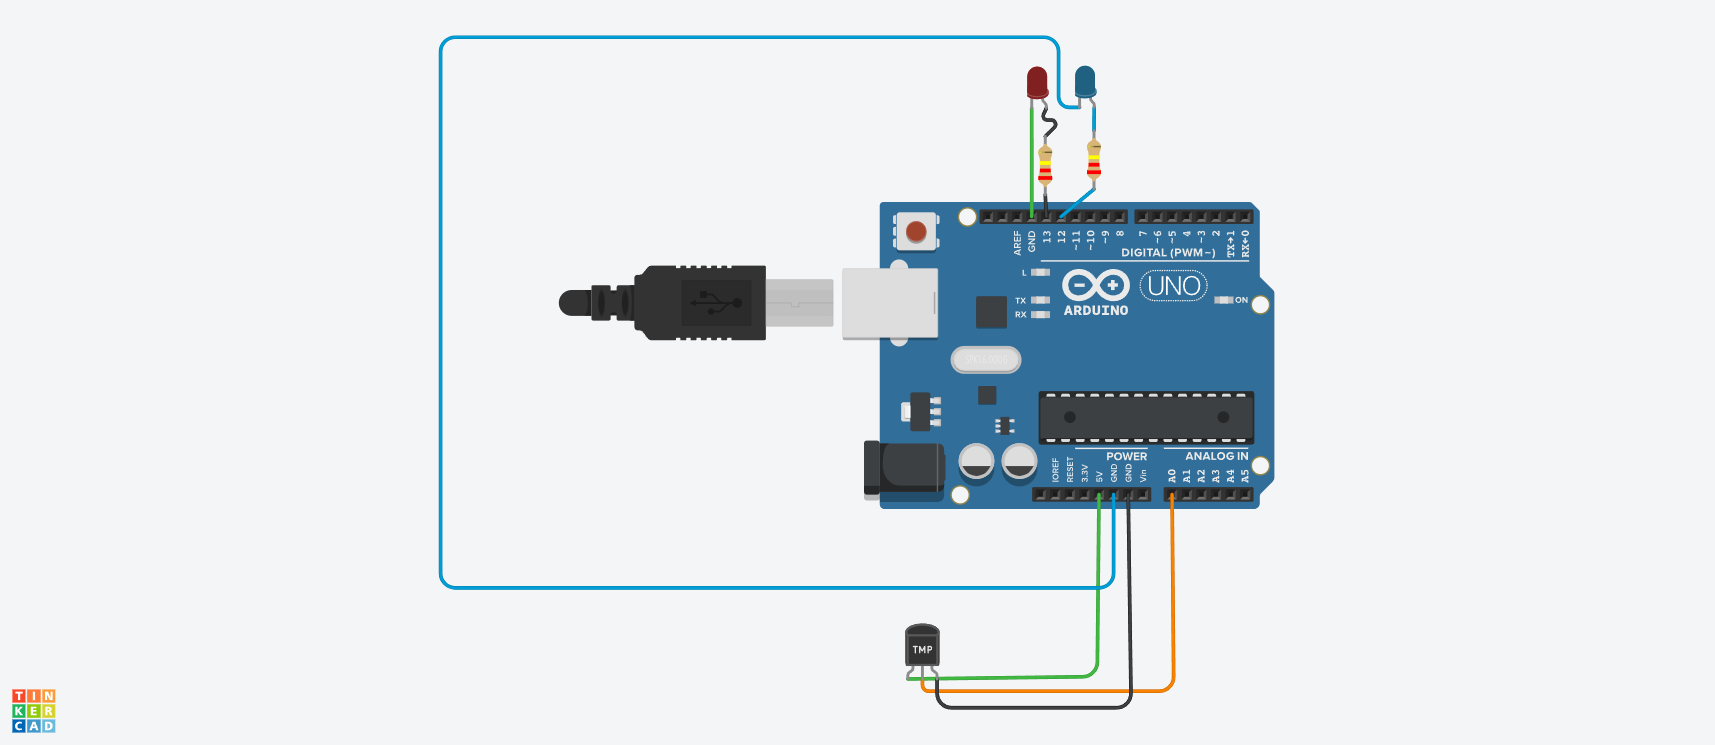
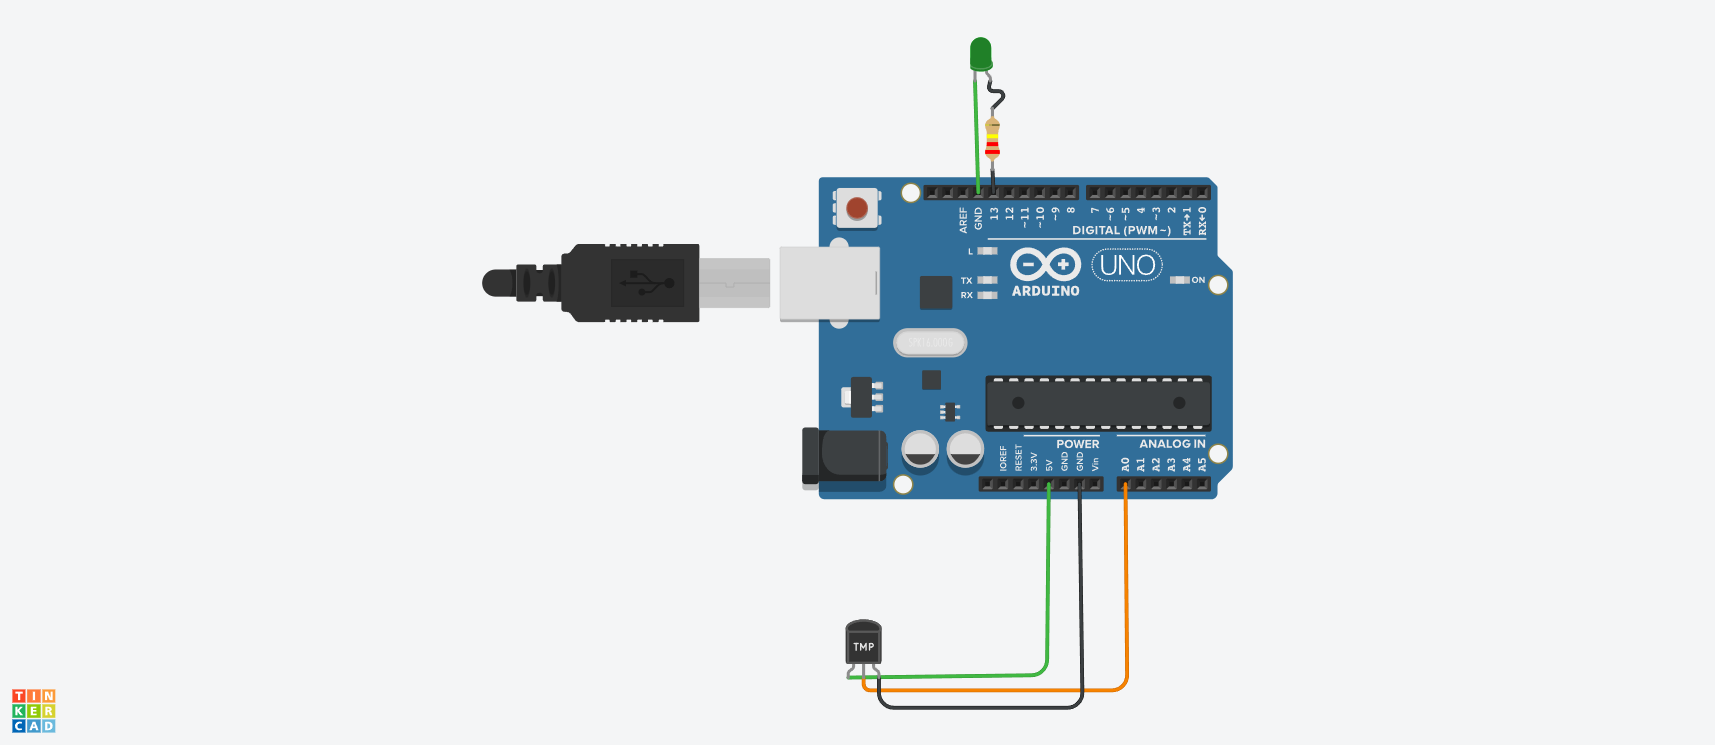
Actualizo archivos del proyecto y estructura de carpetas

Changed region(s): [[0.2472, 0.0309, 0.7417, 0.957]]

diff --git a/python_app/reporte.py b/python_app/reporte.py
@@ -1,0 +1,22 @@
+from datetime import datetime
+import random
+import time
+
+# Simulamos un ciclo de 5 mediciones
+print("--- Iniciando Registro de la Estación Meteorológica ---")
+
+for i in range(5):
+    # 1. Capturamos la hora exacta
+    ahora = datetime.now()
+    hora_formateada = ahora.strftime("%H:%M:%S")
+    
+    # 2. Simulamos el dato del sensor de humedad
+    humedad = random.randint(30, 90)
+    
+    # 3. Mostramos el reporte combinado
+    print(f"[{i+1}] A las {hora_formateada} la humedad es de {humedad}%")
+    
+    # 4. Esperamos 2 segundos entre mediciones para que no sea instantáneo
+    time.sleep(2)
+
+print("--- Registro finalizado ---")

diff --git a/python_app/simulador_sensor.py b/python_app/simulador_sensor.py
@@ -1,0 +1,12 @@
+# Importamos funcionalidades específicas de la biblioteca estándar
+from random import uniform
+from datetime import datetime
+# 1. Simulamos la captura del sensor de la estación
+# Generamos un número flotante (decimal) entre 15 y 35
+temperatura = round(uniform(15.0, 35.0), 2)
+# 2. Obtenemos la fecha y hora del sistema
+ahora = datetime.now()
+# Formateamos la hora para que sea legible (Hora:Minuto:Segundo)
+hora_formateada = ahora.strftime("%H:%M:%S")
+# 3. Resultado final (Lo que se enviaría luego a la DB)
+print(f"Lectura guardada: {temperatura}°C a las {hora_formateada}")

diff --git a/python_app/tiempo.py b/python_app/tiempo.py
@@ -1,0 +1,10 @@
+from datetime import datetime
+
+# Obtenemos el momento actual
+ahora = datetime.now()
+
+print(f"Registro completo: {ahora}")
+print(f"Año: {ahora.year}")
+print(f"Mes: {ahora.month}")
+print(f"Día: {ahora.day}")
+

diff --git a/python_app/redondeo.py b/python_app/redondeo.py
@@ -1,0 +1,9 @@
+import math
+
+temp_sensor = 25.6789
+
+print(f"Temperatura original: {temp_sensor}")
+print(f"Redondeo hacia arriba (ceil): {math.ceil(temp_sensor)}")
+print(f"Redondeo hacia abajo (floor): {math.cb(temp_sensor)}") # Error común: floor, no cb
+# Corregido:
+print(f"Redondeo hacia abajo (floor): {math.floor(temp_sensor)}")

diff --git a/python_app/datos_aliatorios.py b/python_app/datos_aliatorios.py
@@ -1,0 +1,7 @@
+import random
+
+# Simulamos 5 mediciones de humedad
+for i in range(5):
+    humedad_simulada = random.randint(20, 100)
+    print(f"Medición de prueba {i+1}: {humedad_simulada}%")
+

diff --git a/python_app/lectura.py b/python_app/lectura.py
@@ -1,0 +1,7 @@
+import platform
+
+sistema = platform.system()
+procesador = platform.processor()
+
+print(f"La estación está corriendo en: {sistema}")
+print(f"Tipo de procesador: {procesador}")